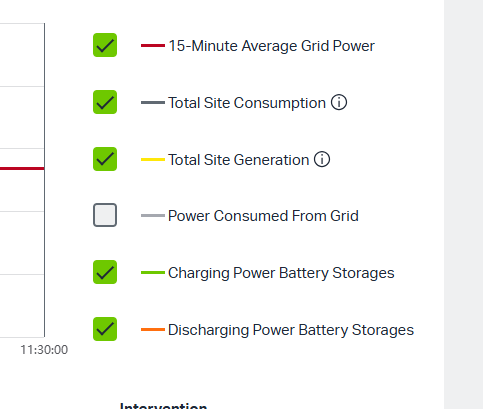
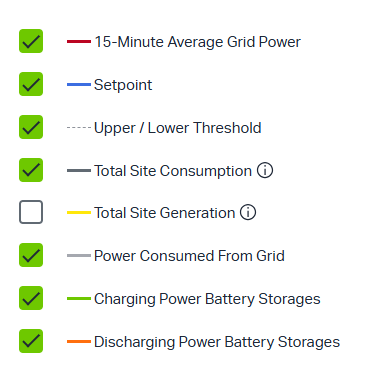
Update configuration

diff --git a/docs/mems/core-functions/peak-load-management.md b/docs/mems/core-functions/peak-load-management.md
@@ -34,41 +34,36 @@ The five cards at the top of the page provide core operational data for the curr
 Vertical status indicator bars Indicators：
 
 Grid Power
-
-    Red - Over Setpoint
-
-    Yellow - Over Upper Threshold
-
-    Green - Under Upper Threshold
+| **Name**                  | **Description**     |
+|---------------------------|---------------------|
+| Red                       | Over Setpoint       |
+| Yellow                    | Over Upper Threshold|
+| Green                     | Under Upper Threshold|
 
 Remaining Headroom
 
 
 15-Minutes Grid Power Forecast
+| **Name**                  | **Description**     |
+|---------------------------|---------------------|
+| Red                       | Over Setpoint       |
+| Yellow                    | Over Upper Threshold|
+| Green                     | Under Upper Threshold|
 
-    Red - Over Setpoint
-
-    Yellow - Over Upper Threshold
-
-    Green - Under Upper Threshold
-    
 Control Stage - Stage [number according to actual stage]
-
-    Grey - Not active
-
-    Green - Active
-
-    Red - Last stage reached and Peak Load not avoided ( Notification of the User )
+| **Name**                  | **Description**     |
+|---------------------------|---------------------|
+| Grey                      | Not active          |
+| Green                     | Active              |
+| Red                       | Last stage reached and Peak Load not avoided ( Notification of the User )|
 
 Battery Storage SoC 
-
-    Grey - there is no battery
-
-    Green  - SoC > 80% 
-
-    Yellow -SoC > 20% and SoC < 80%
-
-    Red - SoC < 20% or SoC = 0%
+| **Name**                  | **Description**     |
+|---------------------------|---------------------|
+| Grey                      | there is no battery storage|
+| Yellow                    | SoC > 80%             |
+| Red                       | SoC < 20% or SoC = 0% |
+ 
 ![alt text](3.png)
 
 ### 3.2 Real-time Trend Chart
@@ -81,6 +76,8 @@ Tooltip: Users can hover over the chart displays data for a specific point in ti
 
 The checkboxes on the right side of the chart control the visibility of different data curves. A checkmark indicates the item is currently displayed. Users can select/unselect checkboxes.
 ![alt text](Legend.png)
+If "Turn off" symbol displays, "Setpoint", "Upper/Lower Threshold" curves and checkboxes will disappear automatically.
+![alt text](6.png)
 
 ### 3.4 Active Controls List
 
@@ -197,9 +194,11 @@ Step 3: Switch to the first window, the setted value is populated.
 
 •Add a new Stage 3 - Decrease Consumption of Controllable Consumers
 
-1. Turn on the toggles that users want.
+1. Click the green + Add Stage button
 
-2. Click "Save" button and Stage 3 is created successfully.
+2. Turn on the toggles that users want.
+
+3. Click "Save" button and Stage 3 is created successfully.
 ![alt text](Add_stage_1.png)
 ![alt text](Add_stage_2_3.png)
 ![alt text](Add_stage_3_3.png)

diff --git a/docs/mems/administration/configuration.md b/docs/mems/administration/configuration.md
@@ -1,1 +1,85 @@
 # Configuration
+## VC Hub side:
+## 1. Create a Client Id to use VC Hub as its identity provider to authenticate its end user.
+Click Security >> OIDC Server(Open API)
+![alt text](2.png)
+For more details, users can refer to https://mm-zzg.github.io/vchub-en-v51/management-platform/security/open-api/?h=oi#register
+
+## 2. Create a Client Id to use VC Hub Connections by making Open API requests from its backend.
+Click Security >> OIDC Server(Open API)
+![alt text](3.png)
+For more details, users can refer to https://mm-zzg.github.io/vchub-en-v51/management-platform/security/open-api/?h=oi#register
+
+## 3. Create a Role
+Click Security >> Role
+![alt text](4.png)
+For more details, users can refer to https://mm-zzg.github.io/vchub-en-v51/management-platform/security/roles-and-users/?h=role
+
+## 4. Create a user
+Click Security >> User
+![alt text](5.png)
+For more details, users can refer to https://mm-zzg.github.io/vchub-en-v51/management-platform/security/roles-and-users/?h=role#creating-users
+
+## 5. Create a Project
+Click Projects >> Project
+![alt text](6.png)
+For more details, users can refer to https://mm-zzg.github.io/vchub-en-v51/management-platform/projects/#what-is-a-project
+
+## 6. Design different pages
+Click Projects >> Project >> Design >> New Page
+![alt text](7.png)
+For more details, users can refer to https://mm-zzg.github.io/vchub-en-v51/quick-start-guide/?h=new+page#55-create-a-new-page
+
+## MEMS Side:
+## 1. Configure page on MEMS
+After logging into MEMS system, Click left navigation siderbar Project Settings >> VC Hub Connections tab
+![alt text](1.png)
+
+### 1.1 Master Node Settings
+
+This area is used to configure the primary communication node for the system.
+
+Node Address*: Enter VC Hub server address.
+
+Node Port*: Enter VC Hub communication port number, default value 10443.
+
+API Version*: Enter the API version number, default value v1. 
+
+Client ID*: The client identifier used for authentication, enter Client Id which created on VC Hub. 
+
+Client Secret*: The password used for authentication, enter Secret which created on VC Hub.
+
+Alarm History Storage Name*: Specify the name of the storage repository for alarm data, default value Default. 
+
+Dashboard - Energy Overview URL: Direct access link for the Dashboard >> Energy Overview page. 
+
+Dashboard - Current Alarming Highlights URL: Link for the Dashboard >> Current Alarms page. 
+
+Alarms - Current Alarming URL: Link for the Alams page. 
+
+Reporting URL: Link for the Reporting page. 
+
+Connection Enabled: Toggle switch. Green indicates Enabled (On), while gray indicates Disabled (Off).
+![alt text](9.png)
+
+Users can copy the url from VC Hub, replace "designer" to "runtime", append "/" Page name
+![alt text](10.png)
+
+### 2.2 Backup Node Settings
+
+
+
+
+
+
+
+
+
+
+
+
+
+
+
+
+
